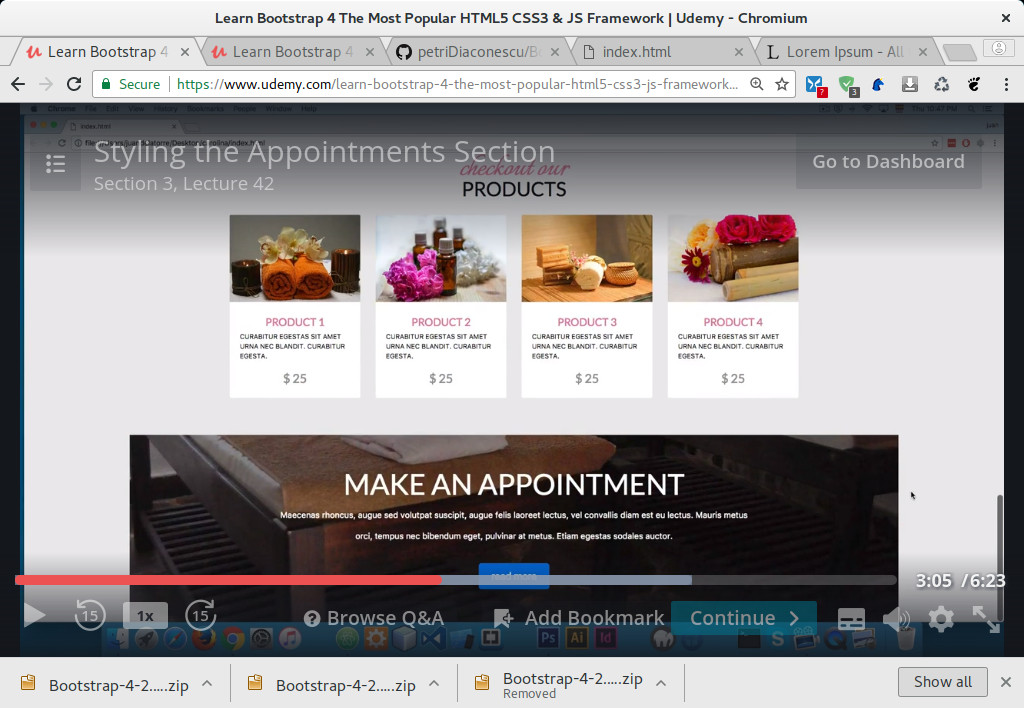
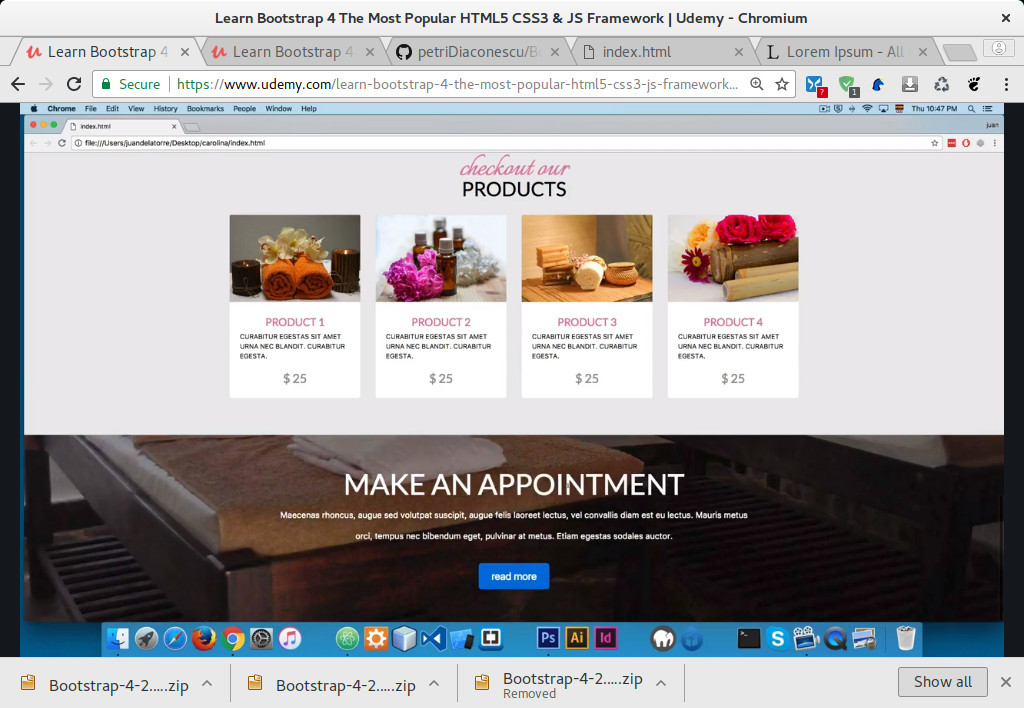
Use media query instead of background-size only directive to avoid problems that some devices have rendering in accordance with background-size:cover directive only

diff --git a/css/styles.css b/css/styles.css
@@ -169,10 +169,14 @@ nav.main-nav .nav-link {
   background-repeat: no-repeat;
   background-position: center center;
   background-attachment: fixed;
-  background-size: cover;
   color: #fff;
 }
 
+@media (min-width: 992px){
+  .appointment {
+    background-size: cover;
+  }
+}
 .appointment h3 {
   font-size: 3.5rem;
   color: #fff;
